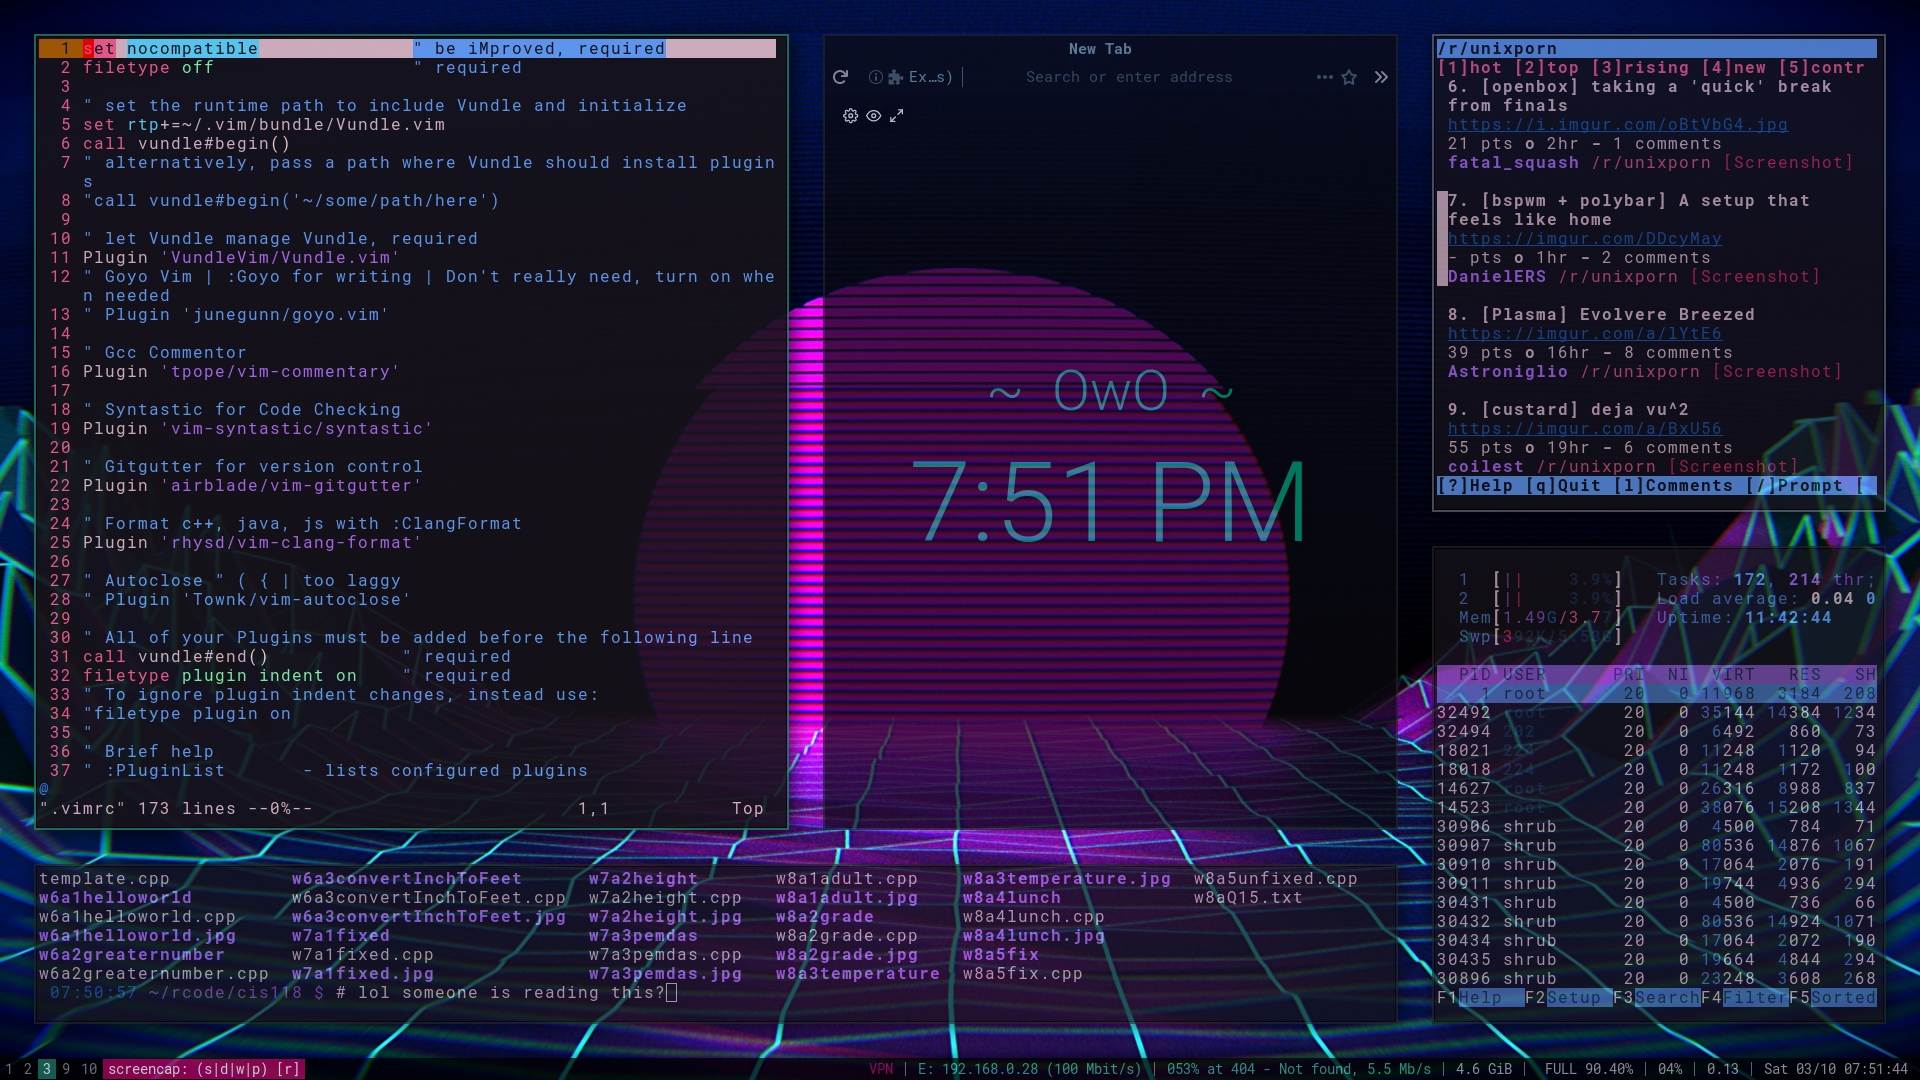
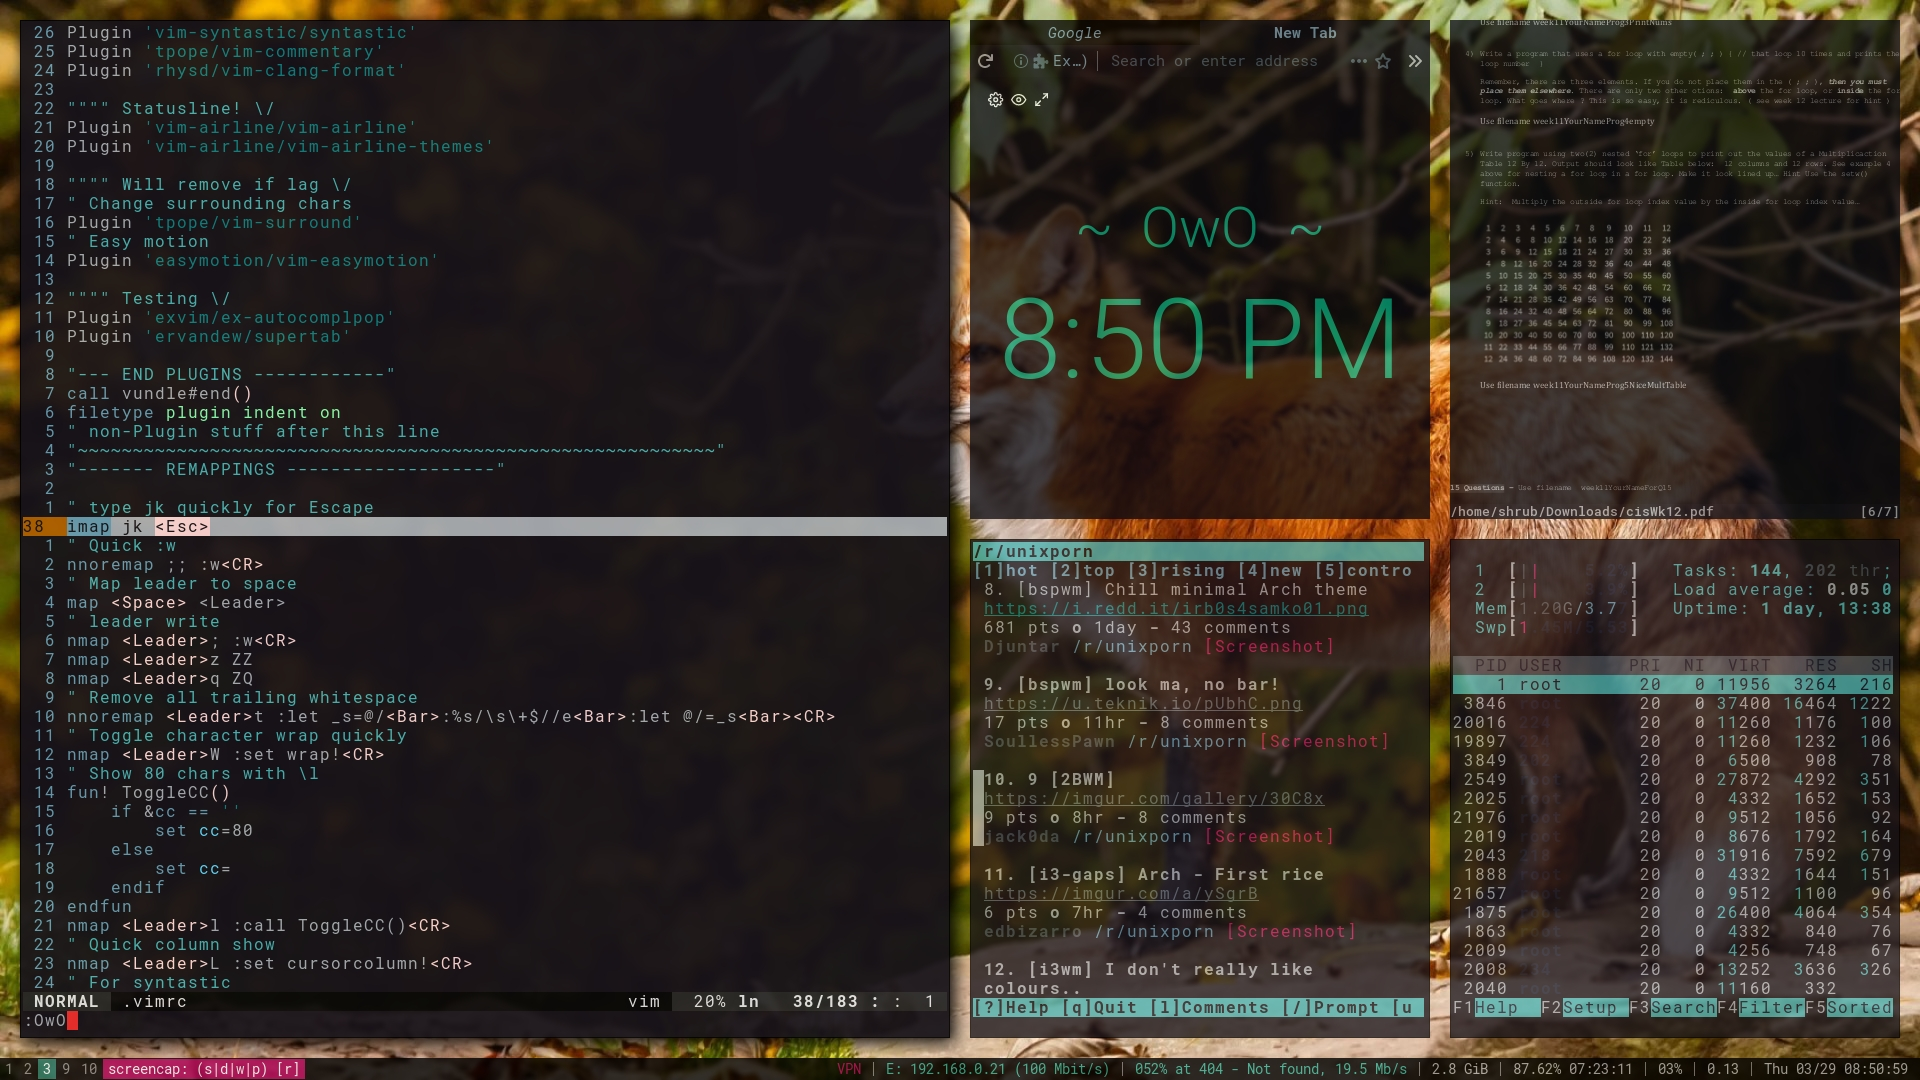
Updated pic and info with new setup

diff --git a/README.md b/README.md
@@ -1,6 +1,16 @@
 # dotfiles
 Just a repository for my dotfiles...
 
-Remember that .Xdefaults is used *instead of* .Xresources...
+### Ingredients:
+* WM: i3-gaps (w/compton)
+* Terminal: Xterm
+* Editor: Vim (w/Vundle)
+* Browser: Firefox (w/Vimium)
+* File Browser: Ranger
+* Image Viewer/Wallpapers: Feh
+* Screenshots: Scrot
+* PDF Viewer: Zathura
 
 ![Image of setup](screencap.jpg?raw=true "Setup")
+
+Remember that .Xdefaults is used *instead of* .Xresources...
